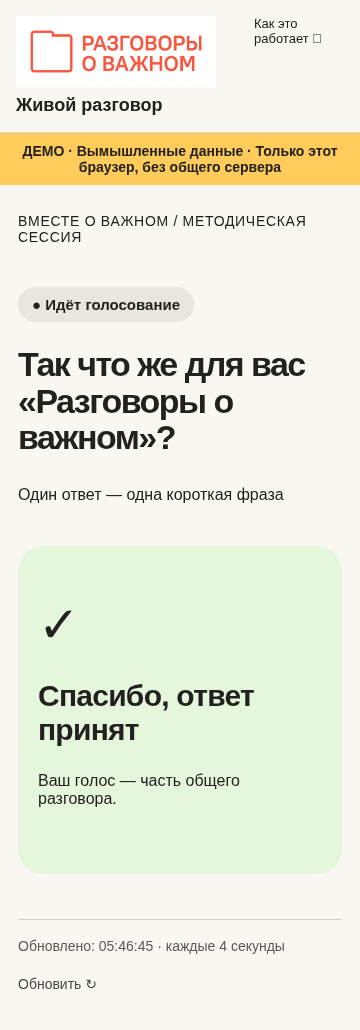
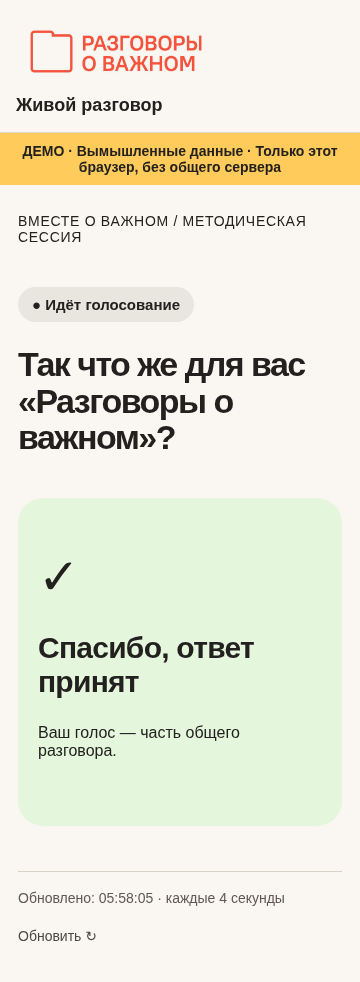
Make response categories optional and simplify public conversation screens

diff --git a/src/main.tsx b/src/main.tsx
@@ -344,9 +344,6 @@ function App() {
                           : "Итоги разговора"}
                       </span>
                       <h1>{poll.title}</h1>
-                      {poll.source === "live" && (
-                        <p>Один ответ — одна короткая фраза</p>
-                      )}
                       {mode === "screen" &&
                         poll.source === "live" &&
                         joinUrl && <QRCodeSVG value={joinUrl} size={130} />}
@@ -399,7 +396,6 @@ function Header() {
         <RovLogo />
         <span>Живой разговор</span>
       </a>
-      <a href={appPath("/help")}>Как это работает ↗</a>
     </header>
   );
 }
@@ -432,14 +428,9 @@ function Participant({ poll, code }: { poll: Poll; code: string }) {
         }
       }}
     >
-      {poll.source === "oral" && poll.title.includes("Что изменилось") && (
-        <h2>Назвали участники</h2>
-      )}
       {poll.kind === "text" ? (
         <>
-          <label htmlFor="answer">
-            Не указывайте личные данные и сведения о конкретных детях
-          </label>
+          <label htmlFor="answer">Ваш ответ</label>
           <textarea
             id="answer"
             maxLength={poll.max_length}
@@ -448,7 +439,7 @@ function Participant({ poll, code }: { poll: Poll; code: string }) {
             required
           />
           <p className="note">
-            {text.length} / {poll.max_length} · Ответ пройдёт модерацию
+            {text.length} / {poll.max_length}
           </p>
         </>
       ) : (
@@ -517,13 +508,7 @@ function Results({ poll }: { poll: Poll }) {
     );
   return (
     <section>
-      {poll.source === "oral" ? (
-        <p>Ответы участников, записанные во время обсуждения</p>
-      ) : poll.source === "preforum" && !poll.n ? (
-        <p>Ожидаем результаты опроса</p>
-      ) : poll.kind === "text" ? (
-        <p>Короткие фразы · одобрено модератором</p>
-      ) : (
+      {poll.kind !== "text" && (
         <div className="result-meta">
           <strong>N = {poll.n}</strong>
           <span>
@@ -540,28 +525,11 @@ function Results({ poll }: { poll: Poll }) {
           {poll.metadata?.cutoff} · {poll.metadata?.sample}
         </p>
       )}
-      {poll.source === "oral" && poll.title.includes("Что изменилось") && (
-        <h2>Назвали участники</h2>
-      )}
       {poll.kind === "text" ? (
         <div className="cards">
-          {poll.source === "oral" && poll.title.includes("Что удалось") ? (
-            ["практика", "проблема"].map((cat) => (
-              <section key={cat}>
-                <h2>{cat === "практика" ? "Сработало" : "Было трудно"}</h2>
-                {poll.cards
-                  .filter((c) => c.category === cat)
-                  .map((c) => (
-                    <article className="card" key={c.id}>
-                      <p>{c.text}</p>
-                    </article>
-                  ))}
-              </section>
-            ))
-          ) : poll.cards.length ? (
+          {poll.cards.length ? (
             poll.cards.slice(0, 10).map((c) => (
               <article className="card" key={c.id}>
-                <span className="pill">{categoryName(c.category)}</span>
                 <p>{c.text}</p>
               </article>
             ))
@@ -1047,11 +1015,13 @@ function Moderate({
         <label>
           Категория
           <select
+            aria-label="Категория"
             value={category}
             onChange={(e) =>
               setCategory(e.target.value as ResponseRow["category"])
             }
           >
+            <option value="">Без категории</option>
             {["проблема", "практика", "решение", "вопрос", "для памятки"].map(
               (x) => (
                 <option key={x}>{x}</option>
@@ -1166,6 +1136,7 @@ function categoryName(c: string) {
   return (
     (
       {
+        "": "Без категории",
         проблема: "Было трудно / Трудности",
         практика: "Сработало / Работающие практики",
         решение: "Открытия и решения",
@@ -1186,7 +1157,7 @@ function Capture({
       b.polls.find((p) => p.source === "oral")?.id || "",
     ),
     [text, setText] = useState(""),
-    [category, setCategory] = useState("практика");
+    [category, setCategory] = useState("");
   return (
     <form
       className="card"
@@ -1228,7 +1199,7 @@ function Capture({
         />
       </label>
       <div className="toolbar">
-        {["проблема", "практика", "решение", "вопрос"].map((c) => (
+        {["", "проблема", "практика", "решение", "вопрос"].map((c) => (
           <button
             type="button"
             aria-pressed={category === c}

diff --git a/tests/browser/workflow.spec.ts b/tests/browser/workflow.spec.ts
@@ -15,6 +15,9 @@ test("two participants, moderation, oral entry, hide and mobile layout", async (
     }),
   ).toBeVisible();
   await expect(a.locator("textarea")).toHaveAttribute("maxlength", "80");
+  await expect(a.getByRole("link", { name: "Как это работает" })).toHaveCount(
+    0,
+  );
   await a.screenshot({
     path: "docs/screenshots/01-participant.png",
     fullPage: true,
@@ -77,6 +80,9 @@ test("two participants, moderation, oral entry, hide and mobile layout", async (
   );
   const oralRow = admin.getByTestId("response-" + oralResponseId);
   await expect(oralRow).toHaveAttribute("data-response-status", "pending");
+  await expect(oralRow.getByLabel("Категория", { exact: true })).toHaveValue(
+    "",
+  );
   await expect(
     screen.getByText("ДЕМО: дать ученикам время на разговор"),
   ).toHaveCount(0);
@@ -94,8 +100,9 @@ test("two participants, moderation, oral entry, hide and mobile layout", async (
   ).toBeVisible();
   await expect(
     screen.getByText("Ответы участников, записанные во время обсуждения"),
-  ).toBeVisible();
+  ).toHaveCount(0);
   await expect(screen.getByText(/N =/)).toHaveCount(0);
+  await expect(screen.locator(".cards .pill")).toHaveCount(0);
   await admin
     .locator(".poll-admin")
     .first()

diff --git a/src/model.ts b/src/model.ts
@@ -1,6 +1,7 @@
 import preforum from "../data/preforum-2026-11-06.json" with { type: "json" };
 export type Status = "prepared" | "open" | "closed" | "results";
 export type Category =
+  | ""
   | "проблема"
   | "практика"
   | "решение"
@@ -159,11 +160,12 @@ export function parseAggregates(input: string, poll: Poll) {
 export function report(board: Board) {
   return [
     "# " + board.title,
-    ...["проблема", "решение", "практика", "вопрос", "для памятки"].map(
+    ...["", "проблема", "решение", "практика", "вопрос", "для памятки"].map(
       (c) =>
         "\n## " +
         (
           {
+            "": "Без категории",
             проблема: "Трудности",
             практика: "Работающие практики",
             решение: "Решения",

diff --git a/tests/model.test.ts b/tests/model.test.ts
@@ -45,13 +45,14 @@ test("memo keeps source, time and expert status", () => {
       poll_id: "p1",
       text: "Больше обсуждать",
       status: "approved",
-      category: "решение",
+      category: "",
       tags: "время",
       resolution: "решено",
       created_at: "2026-11-13T07:30:00Z",
     },
   ];
   assert.match(report(b), /oral.*2026-11-13.*решено/);
+  assert.match(report(b), /Без категории\n- .*Больше обсуждать/);
 });
 
 test("provided real snapshot sums to 140 for both questions and never populates demo counts", async () => {

diff --git a/src/api.ts b/src/api.ts
@@ -87,7 +87,7 @@ export async function vote(
       poll_id: p.id,
       text: text.trim(),
       status: "pending",
-      category: (p.metadata?.default_category || "практика") as Category,
+      category: (p.metadata?.default_category || "") as Category,
       tags: "",
       resolution: "требуется ответ",
       created_at: new Date().toISOString(),

diff --git a/src/style.css b/src/style.css
@@ -71,6 +71,7 @@ header {
 }
 .rov-logo {
   display: block;
+  mix-blend-mode: multiply;
   width: 232px;
   max-width: 100%;
   height: auto;
@@ -405,10 +406,6 @@ textarea {
   }
   .brand .rov-logo {
     width: 200px;
-  }
-  header > a:last-child {
-    font-size: 13px;
-    max-width: 90px;
   }
   main {
     padding: 28px 18px;

diff --git a/README.md b/README.md
@@ -31,7 +31,7 @@ npm run test:e2e
 
 ## Supabase из чистого аккаунта
 
-1. Создайте проект. В SQL Editor выполните `supabase/migrations/001_board.sql`, затем `002_aggregate_updates.sql`, затем **один раз** `supabase/seed.sql`. Миграция рассчитана на новую схему; повторное применение не предусмотрено. Seed создаёт пустое событие с непредсказуемым кодом и 14 экранами, без придуманных результатов. Сохраните выведенные UUID и код.
+1. Создайте проект. В SQL Editor выполните `supabase/migrations/001_board.sql`, затем `002_aggregate_updates.sql`, затем `003_optional_categories.sql`, затем **один раз** `supabase/seed.sql`. Первая миграция рассчитана на новую схему; повторное применение не предусмотрено. Seed создаёт пустое событие с непредсказуемым кодом и 14 экранами, без придуманных результатов. Сохраните выведенные UUID и код.
 2. В Authentication включите Anonymous Sign-ins. Создайте отдельные подтверждённые аккаунты организаторов (email/password); выключите публичную email-регистрацию, если она не нужна. Участникам почта/пароль не нужны. Анонимное включение не отменяет аккаунты организаторов.
 3. В SQL Editor назначьте первому организатору `admin_roles`: используйте UUID созданного пользователя Auth и UUID нужного события. Остальным назначьте `operator` или `moderator` с UUID того же события. Секретарь-оператор записывает слова зала и управляет показом; модератор утверждает/редактирует ответы; администратор настраивает событие, вопросы, импортирует и экспортирует. Участник не может самостоятельно назначить роль. Управление аккаунтами и ролями доступно владельцу проекта через Dashboard, не публичному клиенту.
 4. Скопируйте `.env.example` в `.env.local`. Задайте `VITE_SUPABASE_URL` и публичный `VITE_SUPABASE_ANON_KEY` (legacy anon key или совместимый publishable key). **Никогда не помещайте service_role, secret key или пароль БД в VITE-переменные.** Обе переменные должны быть заданы вместе; конфигурационные ошибки не переключают приложение в демо.
@@ -53,12 +53,12 @@ npm run test:e2e
 4. Открыть ссылку «Проектор».
 5. Включить полный экран и проверить ответ телефона через модерацию.
 
-Далее закройте цифровой вопрос. Для устных блоков оператор вводит **реально произнесённые** фразы в «Фиксацию ответов из зала», выбирает категорию и отправляет в очередь. Модератор утверждает, оператор нажимает «Показать итоги» нужного блока. Смена активного вопроса закрывает предыдущий. «Скрыть экран» прячет доску; «Аварийно закрыть всё» также прекращает приём. Клиенты увидят изменение при следующем успешном запросе (до 4 секунд плюс сеть); мгновенный отзыв уже загруженного экрана без связи невозможен.
+Далее закройте цифровой вопрос. Для устных блоков оператор вводит **реально произнесённые** фразы в «Фиксацию ответов из зала» и отправляет в очередь. Категория необязательна; по умолчанию — «Без категории». Модератор утверждает, оператор нажимает «Показать итоги» нужного блока. Смена активного вопроса закрывает предыдущий. «Скрыть экран» прячет доску; «Аварийно закрыть всё» также прекращает приём. Клиенты увидят изменение при следующем успешном запросе (до 4 секунд плюс сеть); мгновенный отзыв уже загруженного экрана без связи невозможен.
 
 ## Три источника и импорт
 
 - `live`: одна фраза до 80 символов в начале и отдельный вопрос/проблема до 250 символов по команде оператора, положительная, нейтральная или критическая. Ручная модерация; максимум 10 карточек.
-- `oral`: шесть устных вопросов. Никаких процентов и N. «Сработало / Было трудно» — отдельные колонки; категории остальных реплик помечены на карточках. Проектор показывает последние 10 одобренных; чтобы отобрать 6–10 разных, скройте лишние/повторные. Перенос между категориями и исправление текста проходят через модерацию.
+- `oral`: шесть устных вопросов. Никаких процентов и N. Проектор показывает только текст последних 10 одобренных ответов, без категорий и пояснений; чтобы отобрать 6–10 разных, скройте лишние/повторные. Необязательные категории остаются в закрытой модерации и экспорте.
 - `preforum`: три отдельных блока анкеты. Исходные строки, коды ответов и контакты не импортируются. Организатор вручную исключает пробные строки 2–8 и любые другие тесты, не полагаясь только на цвет. Пока N не задан, экран честно сообщает «Ожидаем результаты опроса».
 
 Для диаграммы сначала задайте 2–6 категорий через «Изменить» пустого вопроса. CSV: `категория;число`, далее точные названия вариантов и целые числа; переносов строк внутри названий нет. После выбора файла введите N реальных ответов, время среза и описание выборки. JSON-формат показан в `docs/aggregate-example.json`: UUID вариантов возьмите из администраторского JSON-экспорта. Файл-пример не является данными форума. Сумма счётчиков одиночного выбора обязана совпадать с N; первый импорт и последующие обновления выполняются через «Обновить срез»; предыдущие версии сохраняются в закрытой истории. Сумма должна совпадать с N. При параллельном редактировании устаревший срез отклоняется. Исходная анкета может содержать иные типы данных: не сводите многозначные ответы к одиночному выбору без редакторского решения. Для третьего вопроса вручную внесите обезличенные редакторские тексты через форму фиксации, выбрав источник `preforum`; они тоже ожидают модерации.

diff --git a/docs/organiser.md b/docs/organiser.md
@@ -18,7 +18,7 @@
 
 Дополнительный цифровой вопрос позволяет анонимно прислать вопрос или проблему из практики: оператор открывает его в нужный момент. Это отдельный интерактив; устные блоки не требуют телефонов.
 
-Реплики из зала записывайте дословно по смыслу, без личных данных, через «Фиксацию ответов из зала». Выберите «Сработало», «Было трудно», «Решения» или «Вопросы». До одобрения они не публикуются. Ошибку набора можно исправить; оригинал останется в закрытой истории.
+Реплики из зала записывайте дословно по смыслу, без личных данных, через «Фиксацию ответов из зала». Можно оставить «Без категории» или выбрать категорию для внутренней работы. На проекторе виден только текст ответа. До одобрения ответы не публикуются. Ошибку набора можно исправить; оригинал останется в закрытой истории.
 
 В конце скачайте CSV, XLSX и Markdown. Это основа памятки для редактора, а не автоматически утверждённые рекомендации. Для резервной презентации заранее скачайте PNG нужных вопросов и вставьте их в свои слайды. При сбое сети — голосовые ответы, жестовое голосование и бумага. «Аварийно закрыть всё» прекращает приём и скрывает экран при следующем успешном обновлении.
 

diff --git a/docs/branding.md b/docs/branding.md
@@ -5,8 +5,11 @@
 извлечён фрагмент без перерисовки, перекрашивания или изменения пропорций.
 Файл приложения: `src/assets/rov-logo.png`, 1396 × 496 пикселей.
 
-Белое охранное поле включено в сам PNG: не менее трети высоты знака с каждой
-стороны, по схеме на странице 12. Минимальная ширина изображения в интерфейсе
+Охранное поле включено в сам PNG: не менее трети высоты знака с каждой
+стороны, по схеме на странице 12. В приложении белая подложка совмещается с
+фоном страницы через `mix-blend-mode: multiply`, поэтому белого прямоугольника
+не видно. Это сохраняет исходную графику из PDF без перерисовки.
+Минимальная ширина изображения в интерфейсе
 200 пикселей; это больше цифрового минимума 60 пикселей на странице 13.
 Знак и надпись используются вместе, в исходном взаимном расположении,
 с учётом ограничений на странице 16.
